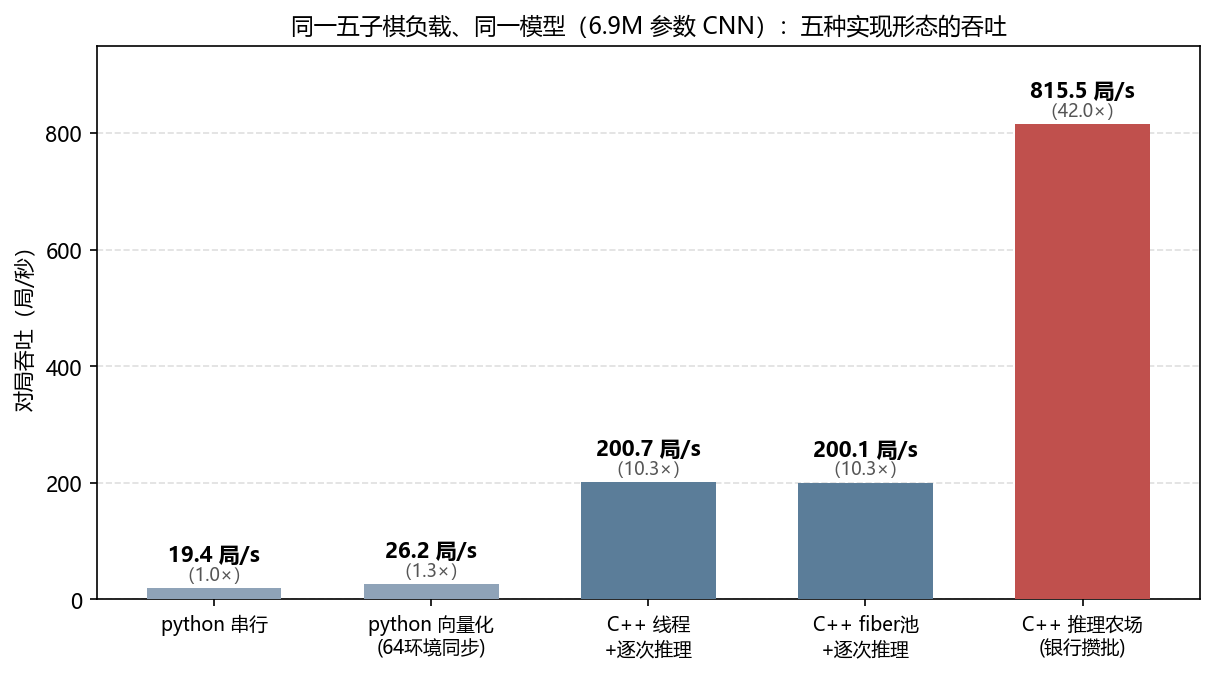
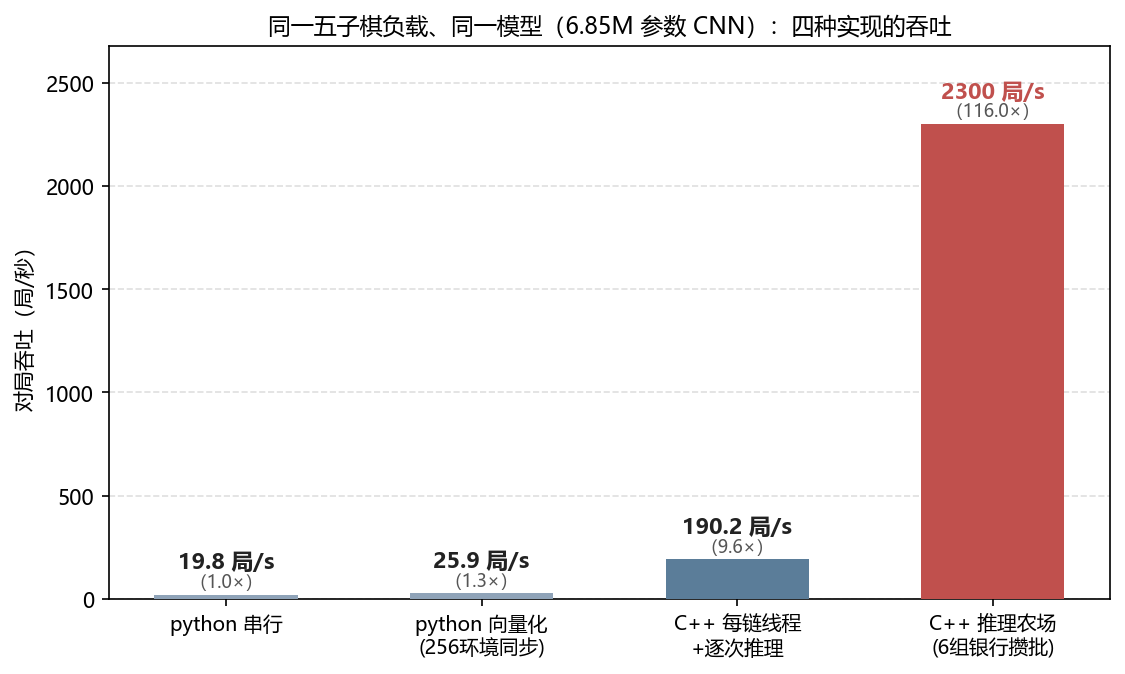
基准谱系重跑与配图终版：8192 局同口径四档（19.8→25.9→190.2→≈2300 局/s=116×）+ 组数扩展图 + README 同步（多设备组/AMD DirectML/异构 1.8×）

diff --git a/tools/fig_bench.py b/tools/fig_bench.py
@@ -1,5 +1,7 @@
 # -*- coding: utf-8 -*-
-# fig_bench.py —— 基准配图（谱系阶梯 + 胜率），matplotlib 微软雅黑朴素风
+# fig_bench.py —— 基准配图（8192 局新口径终版），matplotlib 微软雅黑朴素风
+# 数据出处：bench_data/rerank_8192.log（谱系四档同口径重跑）+ bench_handoff.md
+# （冠军 4 跑中位 2303 / 组数扫描 780-1376-1600-2303）+ 8192 局胜率 7012/8192
 import matplotlib
 matplotlib.use("Agg")
 import matplotlib.pyplot as plt
@@ -11,42 +13,70 @@ plt.rcParams["axes.unicode_minus"] = False
 OUT = os.path.join(os.path.dirname(__file__), "..", "docs", "figures")
 os.makedirs(OUT, exist_ok=True)
 
-# ---- 图 1：实现谱系吞吐阶梯（bench_full.log 2026-09-22，4 腿中位）----
-labels = ["python 串行", "python 向量化\n(64环境同步)", "C++ 线程\n+逐次推理",
-          "C++ fiber池\n+逐次推理", "C++ 推理农场\n(银行攒批)"]
-gps = [19.4, 26.2, 200.7, 200.1, 815.5]
-rel = [1.0, 1.3, 10.3, 10.3, 42.0]
-colors = ["#8fa3b8", "#8fa3b8", "#5b7d99", "#5b7d99", "#c0504d"]
+# ---- 图 1：实现谱系吞吐阶梯（8192 局同口径，linear）----
+labels = ["python 串行", "python 向量化\n(256环境同步)", "C++ 每链线程\n+逐次推理",
+          "C++ 推理农场\n(6组银行攒批)"]
+gps = [19.8, 25.9, 190.2, 2300]
+rel = [1.0, 1.3, 9.6, 116.0]
+colors = ["#8fa3b8", "#8fa3b8", "#5b7d99", "#c0504d"]
 
-fig, ax = plt.subplots(figsize=(8.2, 4.6), dpi=150)
-bars = ax.bar(range(5), gps, color=colors, width=0.62, zorder=3)
-ax.set_ylim(0, 950)
-ax.set_xticks(range(5))
-ax.set_xticklabels(labels, fontsize=9)
+fig, ax = plt.subplots(figsize=(7.6, 4.6), dpi=150)
+bars = ax.bar(range(4), gps, color=colors, width=0.56, zorder=3)
+ax.set_ylim(0, 2680)
+ax.set_xticks(range(4))
+ax.set_xticklabels(labels, fontsize=9.5)
 ax.set_ylabel("对局吞吐（局/秒）", fontsize=10)
-ax.set_title("同一五子棋负载、同一模型（6.9M 参数 CNN）：五种实现形态的吞吐",
+ax.set_title("同一五子棋负载、同一模型（6.85M 参数 CNN）：四种实现的吞吐",
              fontsize=11)
 ax.grid(axis="y", ls="--", alpha=0.4, zorder=0)
-for i, (b, g, r) in enumerate(zip(bars, gps, rel)):
+for b, g, r in zip(bars, gps, rel):
     x = b.get_x() + b.get_width() / 2
-    ax.text(x, g + 46, "%.1f 局/s" % g,
-            ha="center", fontsize=10, fontweight="bold")
-    ax.text(x, g + 14, "（%.1f×）" % r,
-            ha="center", fontsize=8.5, color="#555555")
+    tag = ("%d 局/s" % g) if g >= 1000 else ("%.1f 局/s" % g)
+    ax.text(x, g + 128, tag, ha="center", fontsize=10.5,
+            fontweight="bold", color="#c0504d" if r > 50 else "#222222")
+    ax.text(x, g + 38, "（%.1f×）" % r, ha="center", fontsize=8.5, color="#555555")
 fig.tight_layout()
 fig.savefig(os.path.join(OUT, "bench_ladder.png"), bbox_inches="tight")
 plt.close(fig)
 
-# ---- 图 2：模型价值（胜率，同一规则对手）----
+# ---- 图 2：同一张卡拆组数扩展（第二填充管线）----
+groups = [1, 2, 4, 6]
+g_gps = [780, 1376, 1600, 2303]
+g_rel = [1.0, 1.77, 2.05, 2.95]
+
+fig, ax = plt.subplots(figsize=(6.8, 4.3), dpi=150)
+ax.plot(groups, g_gps, "-o", color="#c0504d", lw=2, ms=7, zorder=3)
+ax.set_xticks(groups)
+ax.set_xticklabels(["%d 组" % g for g in groups], fontsize=10)
+ax.set_ylim(0, 2650)
+ax.set_xlim(0.3, 7.5)   # 最右点标注右置溢出边框——右侧留 1.5 组宽边距
+ax.set_xlabel("同一张 GPU 上拆分的设备组数", fontsize=10)
+ax.set_ylabel("对局吞吐（局/秒）", fontsize=10)
+ax.set_title("不需要第二张卡：同一张 GPU 拆成多组并行填充管线", fontsize=11)
+ax.grid(axis="y", ls="--", alpha=0.4, zorder=0)
+for gx, gy, gr in zip(groups, g_gps, g_rel):
+    ax.annotate("%.1f×" % gr if gr > 1 else "1 组基线", (gx, gy),
+                textcoords="offset points", xytext=(8, 10), fontsize=9.5,
+                color="#555555")
+    ax.annotate("%d" % gy, (gx, gy), textcoords="offset points", xytext=(8, -16),
+                fontsize=10, fontweight="bold", color="#c0504d")
+ax.text(0.03, 0.92, "8 组以上反降（调度台过载）", transform=ax.transAxes,
+        fontsize=8.5, color="#888888")
+fig.tight_layout()
+fig.savefig(os.path.join(OUT, "bench_groups.png"), bbox_inches="tight")
+plt.close(fig)
+
+# ---- 图 3：模型价值（胜率，同一规则对手，8192 局）----
 fig, ax = plt.subplots(figsize=(6.8, 4.2), dpi=150)
-cats = ["未训练参考模型\n(种子权重 MLP)", "行为克隆训练后\n(6.9M CNN，本基准模型)"]
-vals = [0.0, 85.9]
+cats = ["未训练参考模型\n(种子权重 MLP)", "行为克隆训练后\n(6.85M CNN，本基准模型)"]
+vals = [0.0, 85.6]
 bars = ax.bar(cats, vals, color=["#8fa3b8", "#c0504d"], width=0.45, zorder=3)
 ax.set_ylim(0, 100)
 ax.set_ylabel("对内置规则对手胜率（%）", fontsize=10)
 ax.set_title("同一个农场，模型会不会下棋是另一回事：训练前 vs 训练后", fontsize=11)
 ax.grid(axis="y", ls="--", alpha=0.4, zorder=0)
-for b, v, txt in zip(bars, vals, ["0/16", "1100/1280（先手 87.2% / 后手 84.7%）"]):
+for b, v, txt in zip(bars, vals,
+                     ["0/16", "7012/8192（先手 88.4% / 后手 82.9%）"]):
     ax.text(b.get_x() + b.get_width() / 2, v + 3, txt, ha="center", fontsize=9.5,
             fontweight="bold")
 fig.tight_layout()

diff --git a/README.md b/README.md
@@ -48,19 +48,23 @@ build-trt/Release/gomoku.exe --backend trt --engine models/gomoku_mlp.fb8.trt  #
 最快（MLP 太小，GPU 每批门票是纯开销），GPU 后端的吞吐价值在真模型尺度
 （产线参考：[docs/provenance.md](docs/provenance.md)）。
 
-### 公开基准：训练模型 + 五级实现谱系（2026-09-22）
+### 公开基准：训练模型 + 实现谱系 + 多设备组（2026-09-22）
 
 仓库自带一条**可复现的价值链**（`tools/` 一键再生，`docs/benchmark.md` 全口径）：
 
 - **模型真会下棋**：连型评估老师自博弈 4000 局（34.1 万样本）→ BC 训练
   6.85M 参数 CNN（`models/gomoku_cnn.fb16.onnx` 随仓分发）→ 对内置规则
-  对手胜率 **0/16（未训练）→ 1100/1280 = 85.9%**（先手 87.2% / 后手 84.7%）。
-- **框架真跑得快**：同一负载五级实现谱系 4 腿交替实测——
-  python 串行 19.4 局/s → python 向量化 26.2 → C++ 每链线程+逐次 200.7 →
-  C++ fiber+逐次 200.1 → **C++ 推理农场（银行攒批）815.5 局/s**；
-  谱系首尾 **42.0×**，同 C++ 同模型下银行攒批一项 **4.06×**（4 腿批均 11.7-12.8 行）。
-- **行为逐位等价**：12 腿（3 实现 × 4 腿）指纹全同、决策数全同（16276）、
-  推理故障 0——吞吐与正确性一起交账。
+  对手胜率 **0/16（未训练）→ 7012/8192 = 85.6%**（先手 88.4% / 后手 82.9%）。
+- **框架真跑得快**（8192 局同口径，每档 ≥3 跑中位）——python 串行 19.8
+  局/s → python 向量化 25.9 → C++ 每链线程+逐次 190.2 → **C++ 推理农场
+  （同卡 6 设备组×2 银行）≈2300 局/s**；谱系首尾 **116×**，同 C++ 同模型
+  下 **12.1×**。
+- **同一张卡还能再拆**：设备组=并行填充管线，1 组 780 → 2 组 1376（零
+  额外硬件翻倍）→ 6 组 2303 局/s（8 组以上调度台过载反降）。
+- **NVIDIA+AMD 异构混跑**：DirectML 通道（AMD 显卡/核显可直接用）；链
+  钉扎保证跨厂商混跑重跑逐位一致；轻模型下独显+核显=单卡 1.8×。
+- **行为逐位等价**：C++ 侧 5 腿（朴素 3 跑+冠军 2 跑）指纹全同、决策数
+  全同（104175）、推理故障 0——从 190 提到 2300 局/s，八千多局棋一局没变。
 
 ![谱系阶梯](docs/figures/bench_ladder.png)
 
